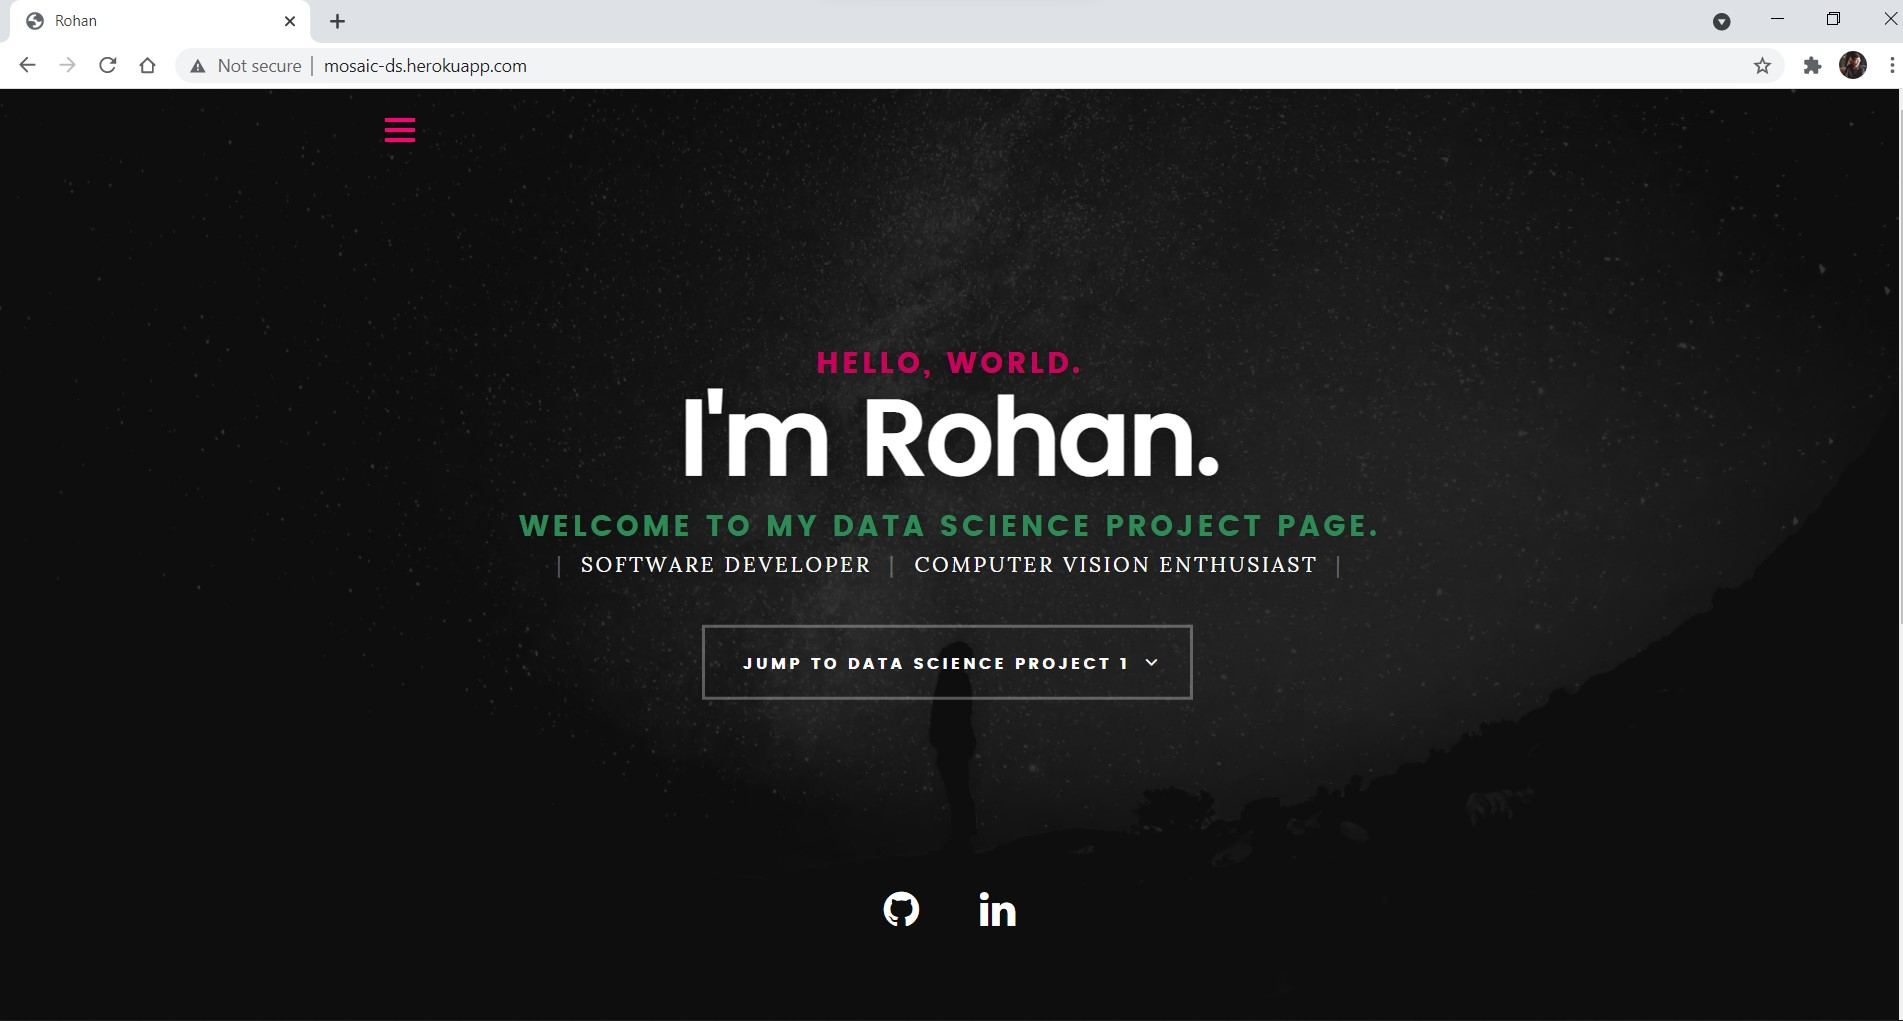
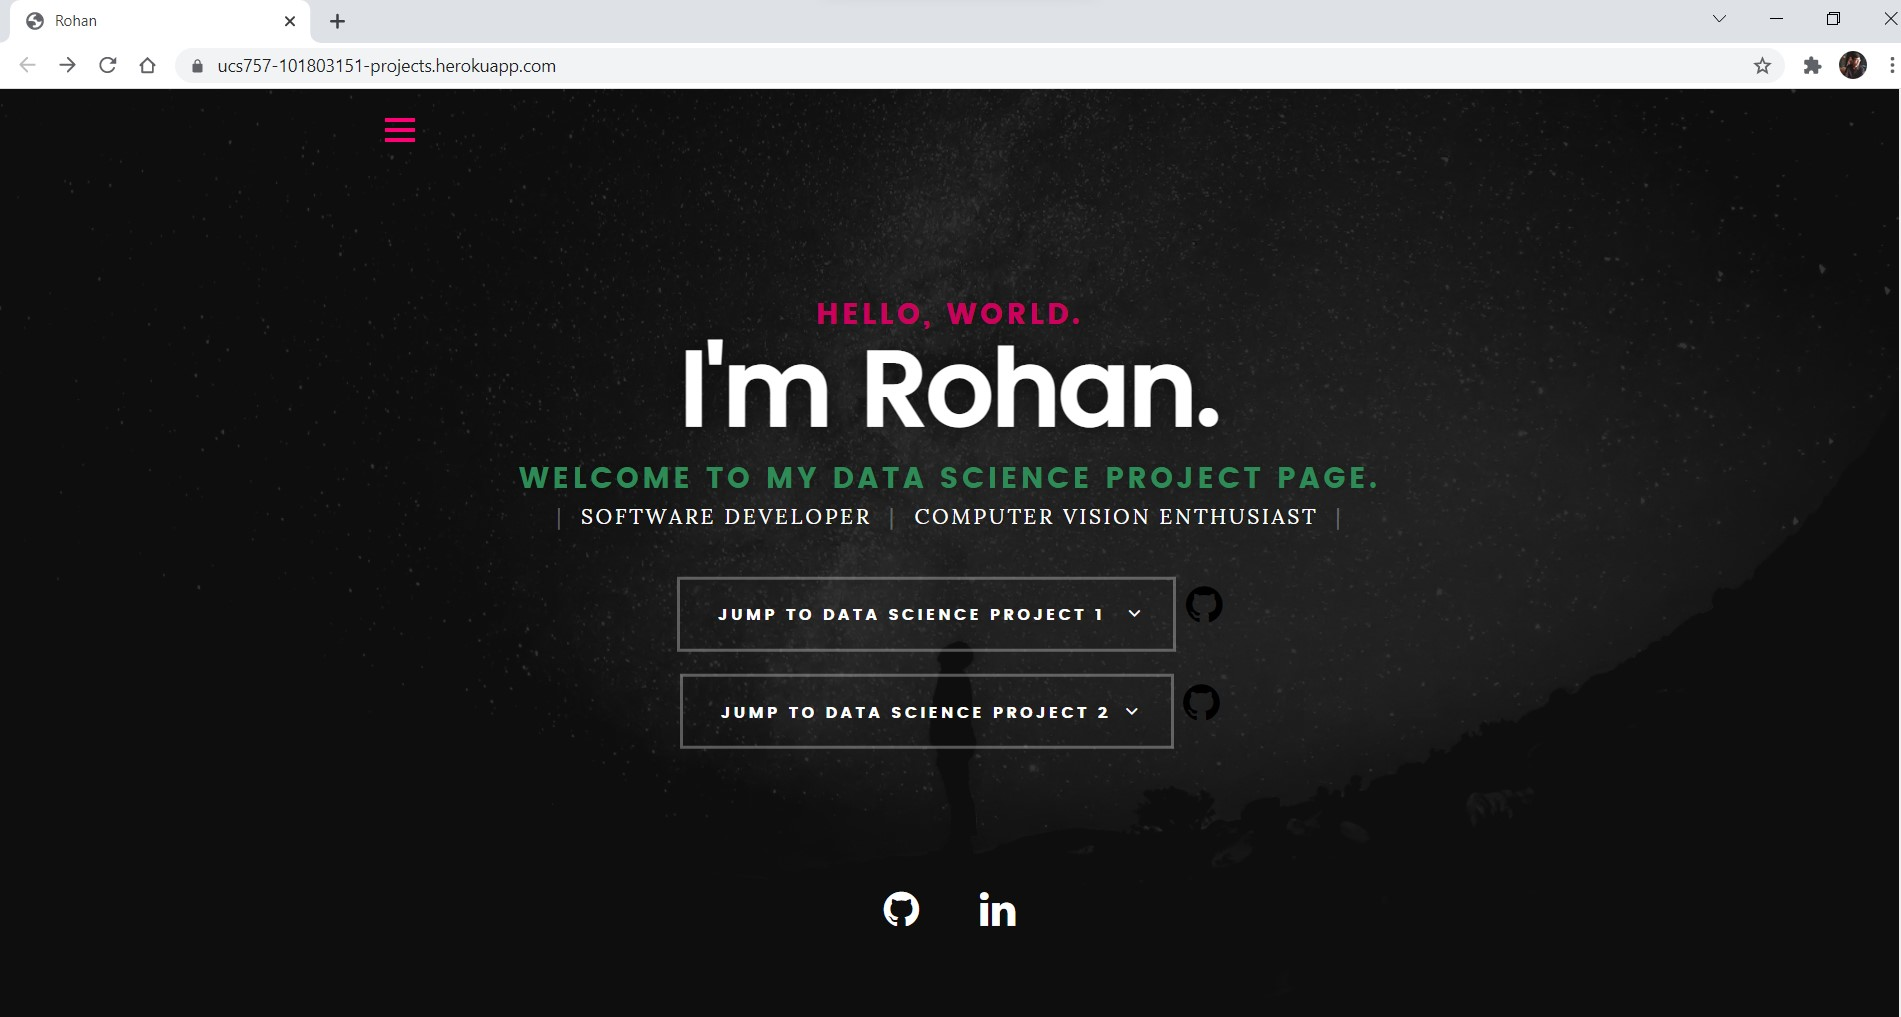
added 2nd project details to the README

diff --git a/README.md b/README.md
@@ -1,10 +1,51 @@
 # UCS757:Building Innovative Systems
-# Project 1: Mosaic Creator Using Node and Python
 ## Submitted by:-
 ### Rohan Dutt
 ### 101803151
 ### COE 8
 
+# Projects
+## Live Link
+https://ucs757-101803151-projects.herokuapp.com
+
+## Home
+![Home](home.jpeg)
+
+# Project 2: Age and Gender Detection 
+## Introduction
+The web app takes an image of a person as input and returns the image with the gender and age group details
+
+## Requirements
+1. Python
+2. OpenCV-Python
+3. NodeJS
+4. EJS
+
+## Live Link
+https://ucs757-101803151-projects.herokuapp.com/age-gender
+
+## Input Interface
+![Interface](interface_gad.jpeg)
+
+## Input
+![Input](input_gad.jpg)
+
+## Output
+![Output](output_gad.jpeg)
+
+## Flowchart
+![Flowchart](flowchart_gad.jpeg)
+
+## Novelty
+1. Generation of dataset for images(tiles), using extensions and small python scripts  
+2. Finding nearest neighbour in terms of colors for each predefined unit of the target image from the data set tiles  
+3. Randomization of images to ensure that maximum pixels are covered for each color   
+4. Using multiple build packs in Heroku for both Node.js and Python and experimenting with amazon ec2 for deployment  
+
+## Limitation
+This technique is limited with its efficiency in detecting age, it cannot detect exact age, and can only detect a certain age group. Also, unfortunately, it does not work on non binary genders yet.
+
+# Project 1: Mosaic Creator Using Node and Python
 ## Introduction
 Mosaic creator is a web app which takes the target image as input and generates that image using thousands of small images
 
@@ -16,10 +57,7 @@ Mosaic creator is a web app which takes the target image as input and generates 
 5. EJS
 
 ## Live Link
-https://mosaic-ds.herokuapp.com/
-
-## Home
-![Home](home.jpeg)
+https://ucs757-101803151-projects.herokuapp.com/mosaic
 
 ## Input Interface
 ![Interface](interface.jpeg)
